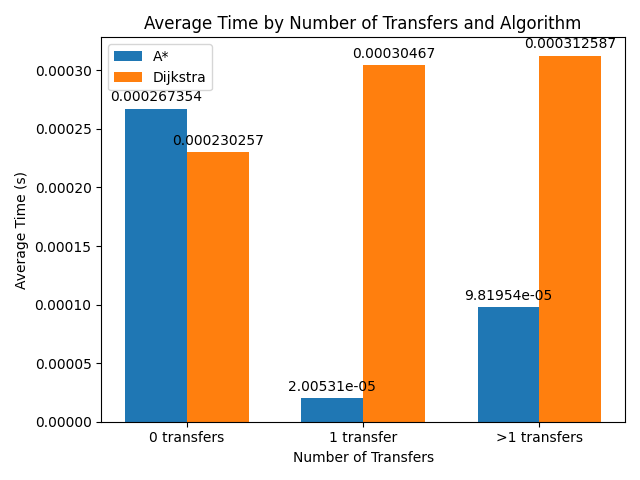
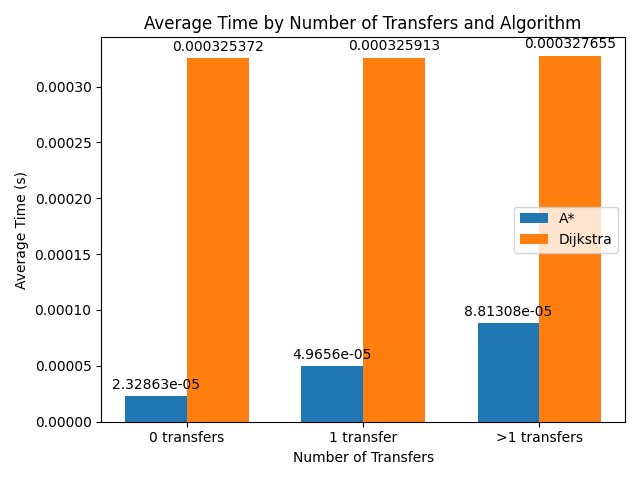
debug finished. Correct graph generated

diff --git a/Parts/Part5_Experiment.py b/Parts/Part5_Experiment.py
@@ -42,8 +42,8 @@ def dijkstra_paths(graph, source, destination):
 
 def calculate_transfers(path, line_info):
     transfers = 0
-    for i in range(1, len(path)):
-        if line_info.get((path[i-1], path[i])) != line_info.get((path[i], path[i+1] if i+1 < len(path) else path[i])):
+    for i in range(1, len(path) - 1):
+        if line_info.get((path[i-1], path[i])) != line_info.get((path[i], path[i+1])):
             transfers += 1
     return transfers
 
@@ -107,7 +107,7 @@ print(f"Dijkstra Duration: {dijkstra_duration}s, Transfers: {dijkstra_transfers}
 def main(station_graph, line_info, num_stations=303, skip_station=189):
     a_star_results = []
     dijkstra_results = []
-
+    
     for i in range(1, num_stations+1):
         if i == skip_station:
             continue
@@ -133,6 +133,28 @@ def main(station_graph, line_info, num_stations=303, skip_station=189):
             print(i,j,"a_star:",a_star_duration,a_star_transfers)
             print(i, j, "dijkstra:", dijkstra_duration, dijkstra_transfers)
             """
+        
+    '''
+    i = 175
+    j = 174
+
+    start_time = timeit.default_timer()
+    _, a_star_path = A_Star(station_graph, i, j, h)
+    a_star_duration = timeit.default_timer() - start_time
+    print(a_star_path)
+    a_star_transfers = calculate_transfers(a_star_path, line_info)
+    a_star_results.append((a_star_duration, a_star_transfers))
+
+    # Dijkstra Algorithm
+    start_time = timeit.default_timer()
+    dijkstra_path = dijkstra_paths(station_graph, i, j)
+    print(dijkstra_path)
+    dijkstra_duration = timeit.default_timer() - start_time
+    dijkstra_transfers = calculate_transfers(dijkstra_path, line_info)
+    dijkstra_results.append((dijkstra_duration, dijkstra_transfers))
+    print(i,j,"a_star:",a_star_duration,a_star_transfers)
+    print(i, j, "dijkstra:", dijkstra_duration, dijkstra_transfers)
+    '''
     # Calculate average times for A*
     avg_a_star = calculate_average_times(a_star_results)
     # Calculate average times for Dijkstra
@@ -145,4 +167,5 @@ def main(station_graph, line_info, num_stations=303, skip_station=189):
 
 if __name__ == "__main__":
     main(station_graph, line_info)
+    # print(station_graph.adj[174])
     

diff --git a/Parts/Part5_station_graph_generated.py b/Parts/Part5_station_graph_generated.py
@@ -61,16 +61,17 @@ with open(csv_path, mode='r') as csvfile:
             )
             
             rounded_distance = round(distance, 4)
-            distance_dict[rounded_distance] = (station1, station2, line, time)
+            distance_dict[(station1, station2)] = rounded_distance
 
 station_graph = DirectedWeightedGraph(max(station_dict.keys()) + 1)
 
-for distance, (station1, station2, line, time) in distance_dict.items():
+for (station1, station2), distance in distance_dict.items():
     station_graph.add_edge(station1, station2, distance)
     station_graph.add_edge(station2, station1, distance)
 
+print(station_graph.adj[253])
 try:
     with open('Part5_station_graph_data.pkl', 'wb') as file:
         pickle.dump(station_graph, file)
 except Exception as e:
-    print(f"Errpr: {e}")
+    print(f"Error: {e}")
